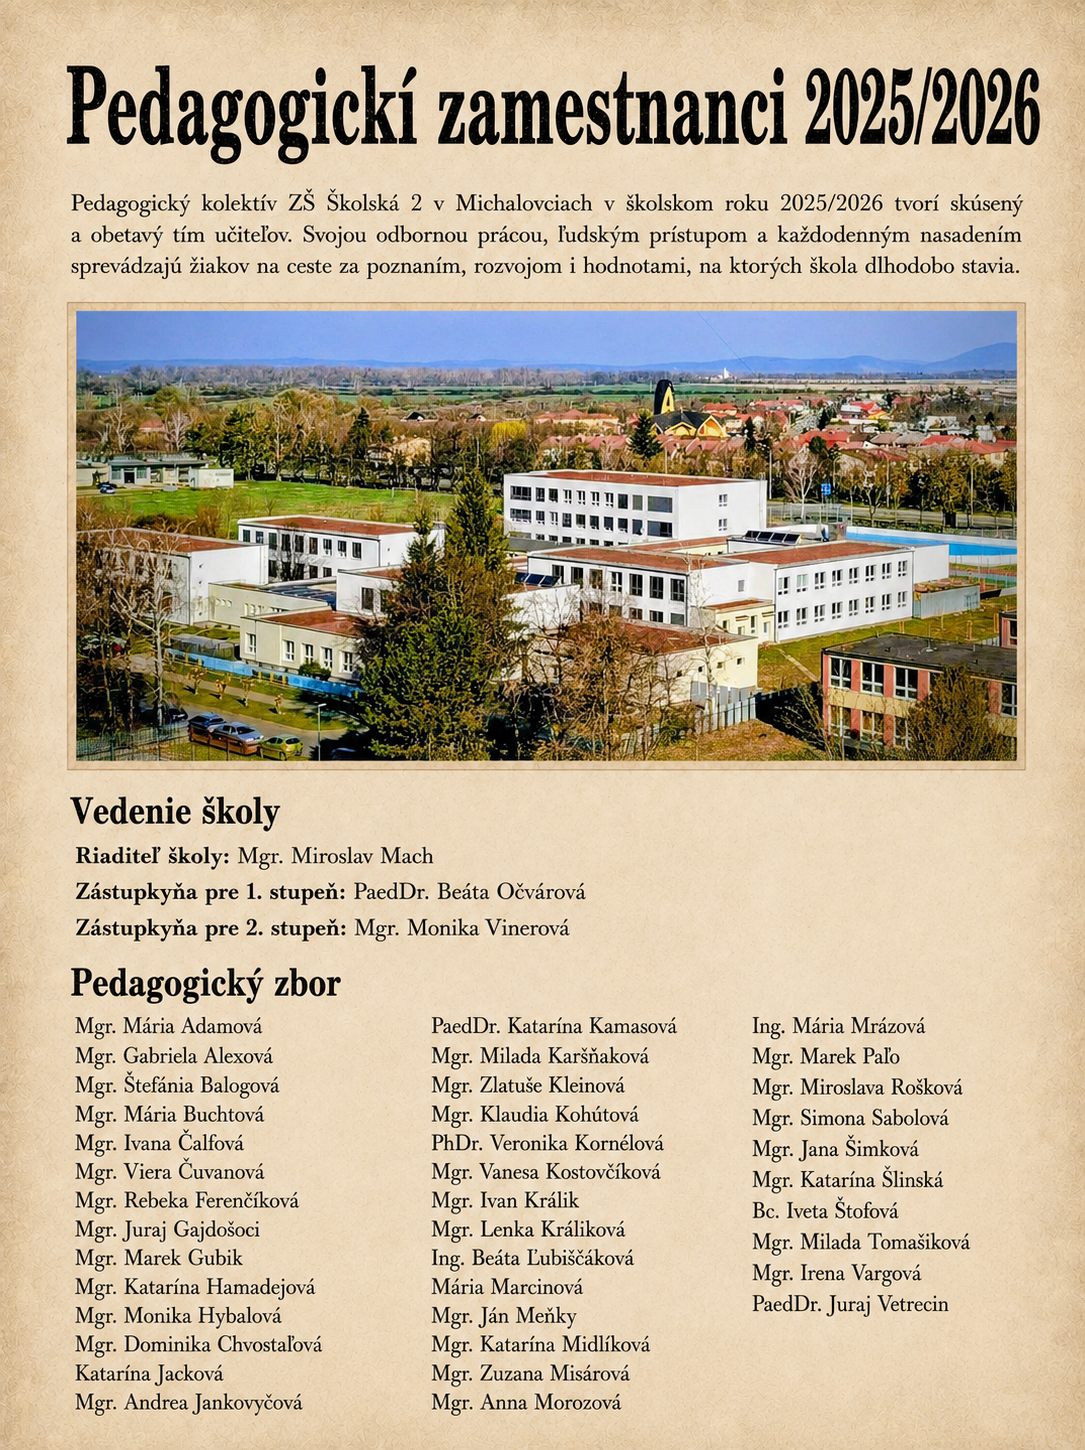
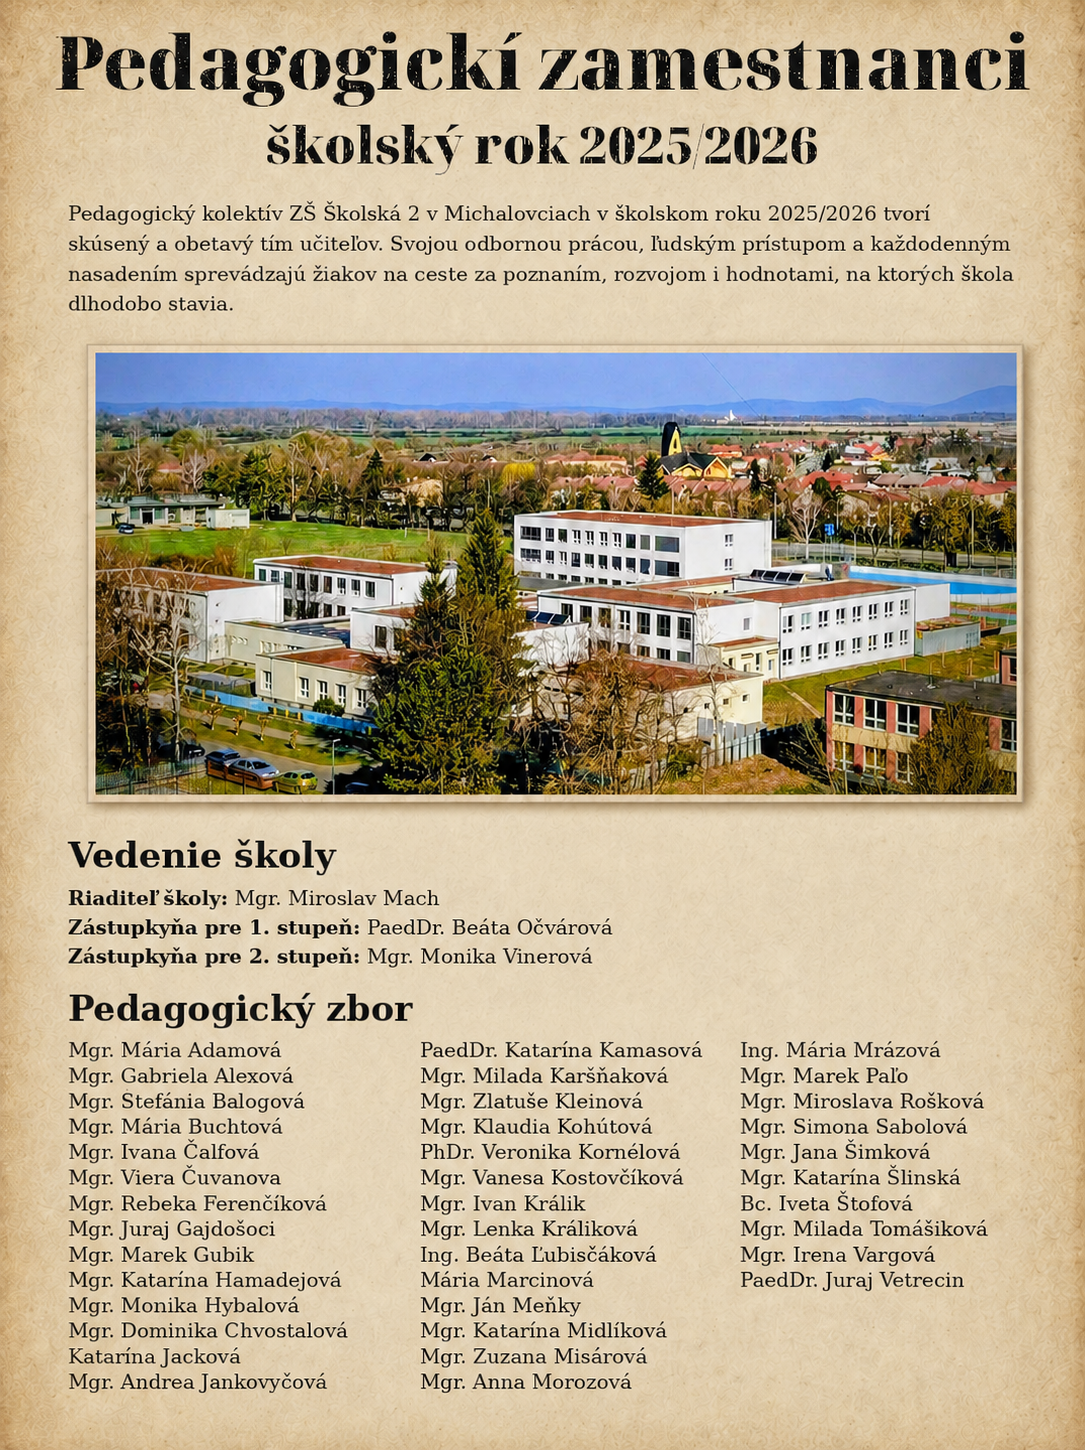
Uprava stran knihy

diff --git a/src/strany/Strana07.jsx b/src/strany/Strana07.jsx
@@ -1,25 +1,16 @@
-import { PadajuciText, PadajuceSlova } from "../komponenty/PadajuciText";
+import strana07Obrazok from "../assets/strana07.png";
+import ZoomObrazok from "../komponenty/ZoomObrazok.jsx";
 
 export default function Strana07() {
-  return (
-      <div className="nice-text-container">
-          <PadajuciText
-              text="Ďalšia kapitola 2"
-              delay={0.5}
-              delayStep={0.06}
-              className="nice-title"
-          />
-
-          <div
-              className="divider-small fade-in-delayed"
-              style={{animationDelay: "1.5s"}}
-          ></div>
-
-          <PadajuceSlova
-              text="Tu môže pokračovať ďalší obsah kroniky."
-              delay={1.2}
-              className="nice-paragraph"
-          />
-      </div>
-  );
+    return (
+        <div className="strana-cely-obrazok-wrap">
+            <ZoomObrazok
+                src={strana07Obrazok}
+                alt="Strana 07"
+                loading="eager"
+                decoding="async"
+                className="strana-cely-obrazok strana-lava"
+            />
+        </div>
+    );
 }

diff --git a/src/strany/Strana08.jsx b/src/strany/Strana08.jsx
@@ -1,13 +1,13 @@
 
 import ZoomObrazok from "../komponenty/ZoomObrazok.jsx";
-import stranaPrazdnaObrazok from "../assets/prazdna-strana.png";
+import strana08Obrazok from "../assets/strana08.png";
 
 export default function Strana08() {
     return (
         <div className="strana-cely-obrazok-wrap">
             <ZoomObrazok
-                src={stranaPrazdnaObrazok}
-                alt="Strana 08-docastna"
+                src={strana08Obrazok}
+                alt="Strana 08"
                 loading="eager"
                 decoding="async"
                 className="strana-cely-obrazok strana-prava"

diff --git a/src/komponenty/Kniha.jsx b/src/komponenty/Kniha.jsx
@@ -29,7 +29,7 @@ import strana04Obrazok from "../assets/strana04.png";
 import strana05Obrazok from "../assets/strana05.png";
 
 import prazdnaStranaObrazok from "../assets/prazdna-strana.png";
-import strana12Obrazok from "../assets/strana12.png";
+import strana12Obrazok from "../assets/strana12_nahrada.png";
 import strana14Obrazok from "../assets/strana14.png";
 
 const TRVANIE_LISTOVANIA = 1400;
